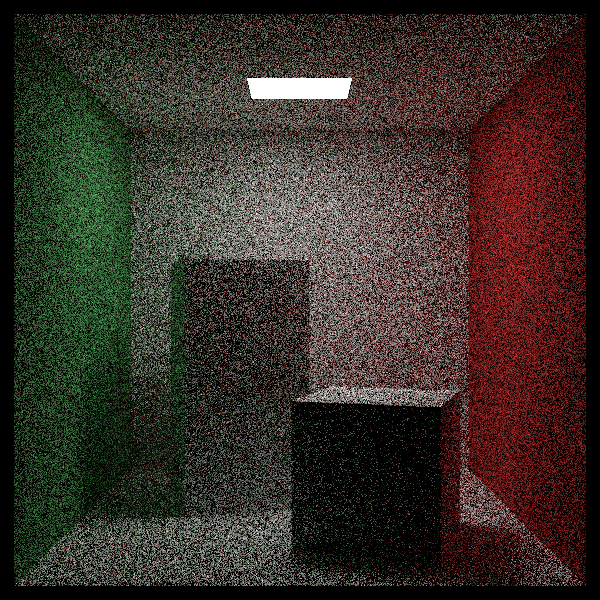
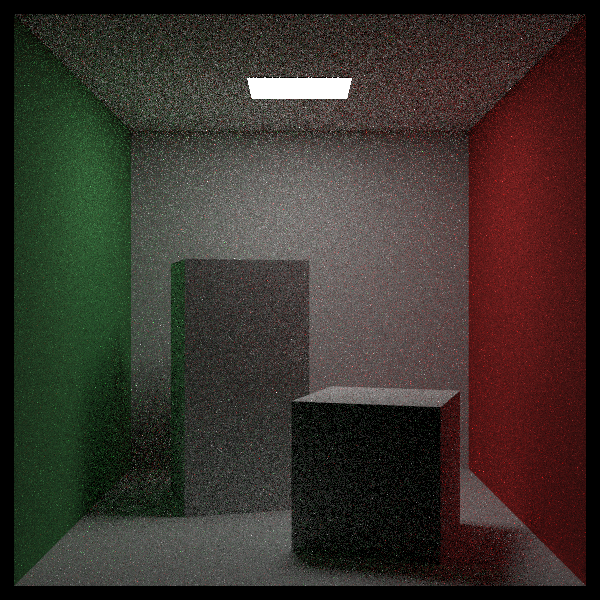
Impl mixed PDFs.

diff --git a/src/headers/base/pdf.h b/src/headers/base/pdf.h
@@ -10,25 +10,56 @@ public:
     virtual Vec3 genDirWithPDF() const = 0;
 };
 
+// WorldObject PDF
 class WOPDF : public PDF {
 public:
     WOPDF(const WorldObject& _objects, const PointVec3& _origin)
-        : worldObject(_objects), objOrigin(_origin)
+        : worldObjects(_objects), objOrigin(_origin)
     {}
 
     double getPDFDistrValue(const Vec3& direction) const override {
-        return worldObject.getPDFValue(objOrigin, direction);
+        return worldObjects.getPDFVal(objOrigin, direction);
     }
 
     Vec3 genDirWithPDF() const override {
-        return worldObject.getRandomX(objOrigin);
+        return worldObjects.getRandomDirWithPDF(objOrigin);
     }
 
 private:
-    const WorldObject& worldObject;
+    const WorldObject& worldObjects;
     PointVec3 objOrigin;
 };
 
+// Mixture PDF
+class PDFMixture : public PDF
+{
+public:
+    PDFMixture(std::shared_ptr<PDF> firstPDF, std::shared_ptr<PDF> secPDF)
+    {
+        memPDFs[0] = firstPDF;
+        memPDFs[1] = secPDF;
+    }
+
+    double getPDFDistrValue(const Vec3& direction) const override {
+        return ((0.5 * memPDFs[0]->getPDFDistrValue(direction)) + (0.5 * memPDFs[1]->getPDFDistrValue(direction)));
+    }
+
+    Vec3 genDirWithPDF() const override {
+        if (UGenRNGDouble() < 0.5)
+        {
+            return memPDFs[0]->genDirWithPDF();
+        }
+        else
+        {
+            return memPDFs[1]->genDirWithPDF();
+        }
+    }
+
+private:
+    std::shared_ptr<PDF> memPDFs[2];
+};
+
+// Sphere PDF
 class PDFSphere : public PDF
 {
 public:
@@ -45,6 +76,7 @@ public:
     }
 };
 
+// Cosine PDF
 class PDFCosine : public PDF
 {
 public:

diff --git a/src/headers/base/camera.h b/src/headers/base/camera.h
@@ -158,26 +158,21 @@ private:
 			return colorFromEmission;
 		}
 
-		/*auto onLight{ PointVec3(UGenRNGDouble(213, 343), 554, UGenRNGDouble(227, 332)) };
-		auto toLight{ onLight - tempRec.hitPoint };
-		auto distSq{ toLight.computeMagnitudeSquared() };
-		toLight = computeUnitVector(toLight);
+		auto lightPDF = std::make_shared<WOPDF>(lights, tempRec.hitPoint);
+		auto cosinePDF = std::make_shared<PDFCosine>(tempRec.hitNormalVec);
+		PDFMixture mixedPDF(lightPDF, cosinePDF);
 
-		if (computeDotProduct(toLight, tempRec.hitNormalVec) < 0) return colorFromEmission;
-
-		double lightSourceArea{ (343 - 213) * (332 - 227) };
-		auto lightCosine{ std::fabs(toLight.getY()) };
-		if (lightCosine < 0.000001) return colorFromEmission;
-
-		pdfDistValue = distSq / (lightCosine * lightSourceArea);
-		scatteredRay = Ray(tempRec.hitPoint, toLight, inputRay.getRayTime());*/
+		scatteredRay = Ray(tempRec.hitPoint, mixedPDF.genDirWithPDF(), inputRay.getRayTime());
+		pdfDistValue = mixedPDF.getPDFDistrValue(scatteredRay.getRayDirection());
 
 		auto scatteringPDF = tempRec.hitMaterial->scatteringPDF(inputRay, tempRec, scatteredRay);
-
+		
 		ColorVec3 sampleColor = computePixelColor(scatteredRay, bounceDepthParam - 1, mainWorld, lights);
 
+		ColorVec3 test = attenuationValue * scatteringPDF * sampleColor;
+
 		// Else, compute pixel color for scattered ray.
-		ColorVec3 colorFromScatter = (attenuationValue * scatteringPDF * sampleColor) / pdfDistValue;
+		ColorVec3 colorFromScatter = (test) / pdfDistValue;
 
 		return colorFromEmission + colorFromScatter;
 	}

diff --git a/learning_exp/main.cpp b/learning_exp/main.cpp
@@ -1,16 +1,40 @@
 #include "../src/headers/base/util.h"
 #include "main.h"
+inline Vec3 gg();
 
 int main()
 {
-    for (int i = 0; i < 200; i++) {
-        auto r1 = UGenRNGDouble();
-        auto r2 = UGenRNGDouble();
-        auto x = cos(2 * Upi * r1) * 2 * sqrt(r2 * (1 - r2));
-        auto y = sin(2 * Upi * r1) * 2 * sqrt(r2 * (1 - r2));
-        auto z = 1 - 2 * r2;
-        std::cout << x << " " << y << " " << z << '\n';
-    }
+	//for (int i = 0; i < 200; i++) {
+	//	auto r1 = UGenRNGDouble();
+	//	auto r2 = UGenRNGDouble();
+	//	auto x = cos(2 * Upi * r1) * 2 * sqrt(r2 * (1 - r2));
+	//	auto y = sin(2 * Upi * r1) * 2 * sqrt(r2 * (1 - r2));
+	//	auto z = 1 - r2;
+	//	std::cout << "[" << x << ", " << y << ", " << z << "]," << "\n";
+	//}
+
+	for (int i{}; i < 50; ++i)
+	{
+		Vec3 testVec = gg();
+		std::cout << "[" << testVec.getX() << ", " << testVec.getY() << ", " << testVec.getZ() << "]," << "\n";
+	}
+
+
 
 	return 0;
+}
+
+inline Vec3 gg()
+{
+	auto r1 = UGenRNGDouble();
+	auto r2 = UGenRNGDouble();
+
+	auto phi = 2 * Upi * r1;
+	auto x = cos(phi) * std::sqrt(r2);
+	auto y = sin(phi) * std::sqrt(r2);
+	auto z = std::sqrt(1 - r2);
+
+	Vec3 cosine(x, y, z);
+
+	return cosine;
 }

diff --git a/src/headers/world_objects/quad.h b/src/headers/world_objects/quad.h
@@ -49,7 +49,7 @@ public:
 		return true;
 	}
 
-	virtual bool isPointInsideQuad(double a, double b, HitRecord& hitRec) const
+	bool isPointInsideQuad(double a, double b, HitRecord& hitRec) const
 	{
 		if ((a < 0) || (1 < a) || (b < 0) || (1 < b)) return false;
 
@@ -59,7 +59,7 @@ public:
 		return true;
 	}
 
-	double getPDFValue(const PointVec3& o, const Vec3& v) const override
+	double getPDFVal(const PointVec3& o, const Vec3& v) const override
 	{
 		HitRecord tempRec;
 
@@ -68,14 +68,14 @@ public:
 			return 0;
 		}
 
-		// I don't understand this properly.
+
 		auto distSq = tempRec.hitRoot * tempRec.hitRoot * v.computeMagnitudeSquared();
 		auto cosine = std::fabs(computeDotProduct(v, tempRec.hitNormalVec) / v.computeMagnitude());
 
 		return (distSq / (cosine * quadArea));
 	}
 
-	Vec3 getRandomX(const PointVec3& o) const override
+	Vec3 getRandomDirWithPDF(const PointVec3& o) const override
 	{
 		// Potential mistake here, as the code uses dummy variable names, I'm not sure.
 		auto p = botLeftQ + (UGenRNGDouble() * horizontalU) + (UGenRNGDouble() * verticalV);

diff --git a/src/headers/materials/lambertian.h b/src/headers/materials/lambertian.h
@@ -10,9 +10,7 @@ public:
 
 	bool handleRayScatter(const Ray& inputRay, Ray& scatteredRay, const HitRecord& hitRec, ColorVec3& colorAttenuation, double& pdf) const override
 	{
-		PDFCosine surfacePDF(hitRec.hitNormalVec);
-		scatteredRay = Ray(hitRec.hitPoint, surfacePDF.genDirWithPDF(), inputRay.getRayTime());
-		pdf = surfacePDF.getPDFDistrValue(scatteredRay.getRayDirection());
+		
 		colorAttenuation = albedoTex->getTexColorAtCoords(hitRec.hitTexU, hitRec.hitTexV, hitRec.hitPoint);
 		return true;
 	}
@@ -20,7 +18,14 @@ public:
 	virtual double scatteringPDF(const Ray& inputRay, const HitRecord& hitRec, const Ray& scatteredRay) const
 	{
 		auto cosTheta = computeDotProduct(hitRec.hitNormalVec, computeUnitVector(scatteredRay.getRayDirection()));
-		return cosTheta < 0 ? 0 : (cosTheta / Upi);
+		if (cosTheta < 0)
+		{
+			return 0;
+		}
+		else
+		{
+			return cosTheta / Upi;
+		}
 	}
 
 private:

diff --git a/src/headers/base/util.h b/src/headers/base/util.h
@@ -38,7 +38,7 @@ inline double UGenRNGDouble()
 
 inline double UGenRNGDouble(double minVal, double maxVal)
 {
-    // Define the dist. range [0.f, 1.f).
+    // Define the dist. range [minVal, maxVal).
     std::uniform_real_distribution<double> uniDist(minVal, maxVal);
 
     return uniDist(rngEng);
@@ -130,8 +130,8 @@ inline void UPrintSuccessLog(
 
 // CONSTS (currently setup for cornell box)
 constexpr bool USE_MT{ true };
-constexpr int AA_NUM_SAMPLES{ 64 };
-constexpr int MAX_RAY_BOUNCES{ 50 };
+constexpr int AA_NUM_SAMPLES{ 20 };
+constexpr int MAX_RAY_BOUNCES{ 64 };
 constexpr double VERTICAL_FOV{ 40 };
 constexpr int RES_WIDTH_PIXELS{ 600 };
 constexpr double CAM_DEFOCUS_ANGLE{ 0 };

diff --git a/src/main.cpp b/src/main.cpp
@@ -247,8 +247,7 @@ static void render_cornellBox_RTTNW()
 	// Light Sources
 	WorldObjectList lights;
 	auto m = std::shared_ptr<Material>();
-	lights.addToWorld(std::make_shared<WOQuad>(PointVec3(343, 554, 332), Vec3(-130, 0, 0), Vec3(0, 0, -105), m));
-	
+	lights.addToWorld(make_shared<WOQuad>(PointVec3(343, 554, 332), Vec3(-130, 0, 0), Vec3(0, 0, -105), m));
 
 	// Camera init.
 	Camera mainCamera((1), static_cast<unsigned short>(RES_WIDTH_PIXELS), pixelBuffer, USE_MT, AA_NUM_SAMPLES, MAX_RAY_BOUNCES, VERTICAL_FOV, CAM_LOOKFROM_VEC, CAM_LOOKAT_VEC, WORLD_UP, CAM_DEFOCUS_ANGLE, CAM_FOCUS_DIST, ColorVec3(0.f));

diff --git a/src/headers/base/worldObject.h b/src/headers/base/worldObject.h
@@ -29,12 +29,12 @@ public:
 	virtual bool checkHit(const Ray& inputRay, Interval validInterval, HitRecord& hitRec) const = 0;
 	virtual AABB getWOBoundingBox() const = 0;
 
-	virtual double getPDFValue(const PointVec3& o, const Vec3& v) const {
+
+	virtual double getPDFVal(const PointVec3& o, const Vec3& v) const {
 		return 0.0;
 	}
 
-	virtual Vec3 getRandomX(const Vec3& o) const {
+	virtual Vec3 getRandomDirWithPDF(const PointVec3& o) const {
 		return Vec3(1, 0, 0);
 	}
-
 };

diff --git a/src/headers/base/worldObjectList.h b/src/headers/base/worldObjectList.h
@@ -37,6 +37,24 @@ public:
 		return didItHit;
 	}
 
+	double getPDFVal(const PointVec3& o, const Vec3& v) const override
+	{
+		if (!WOList.empty())
+		{
+			return WOList[0]->getPDFVal(o, v);
+		}
+		return 0;
+	}
+
+	Vec3 getRandomDirWithPDF(const PointVec3& o) const override
+	{
+		if (!WOList.empty())
+		{
+			return WOList[0]->getRandomDirWithPDF(o);
+		}
+		return 0;
+	}
+
 private:
 	AABB boundingBox;
 };
